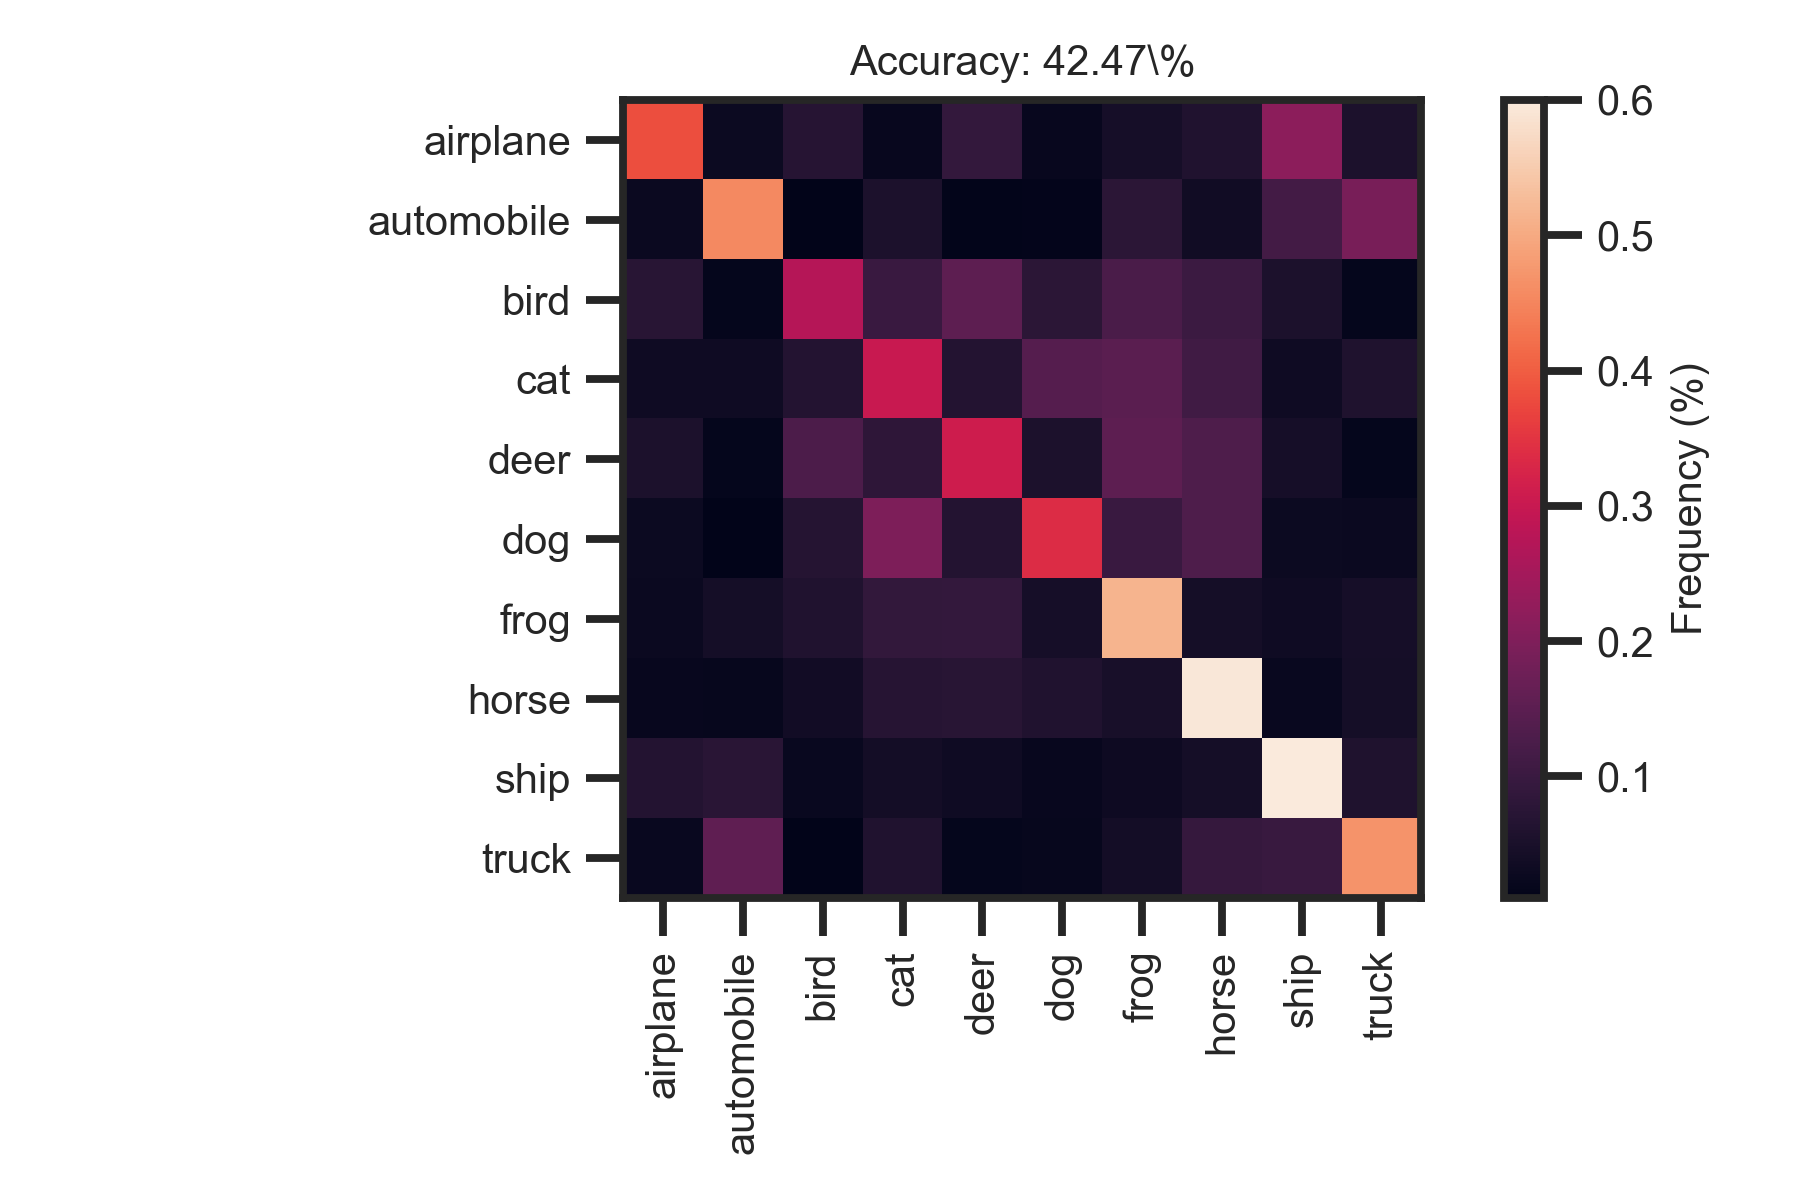
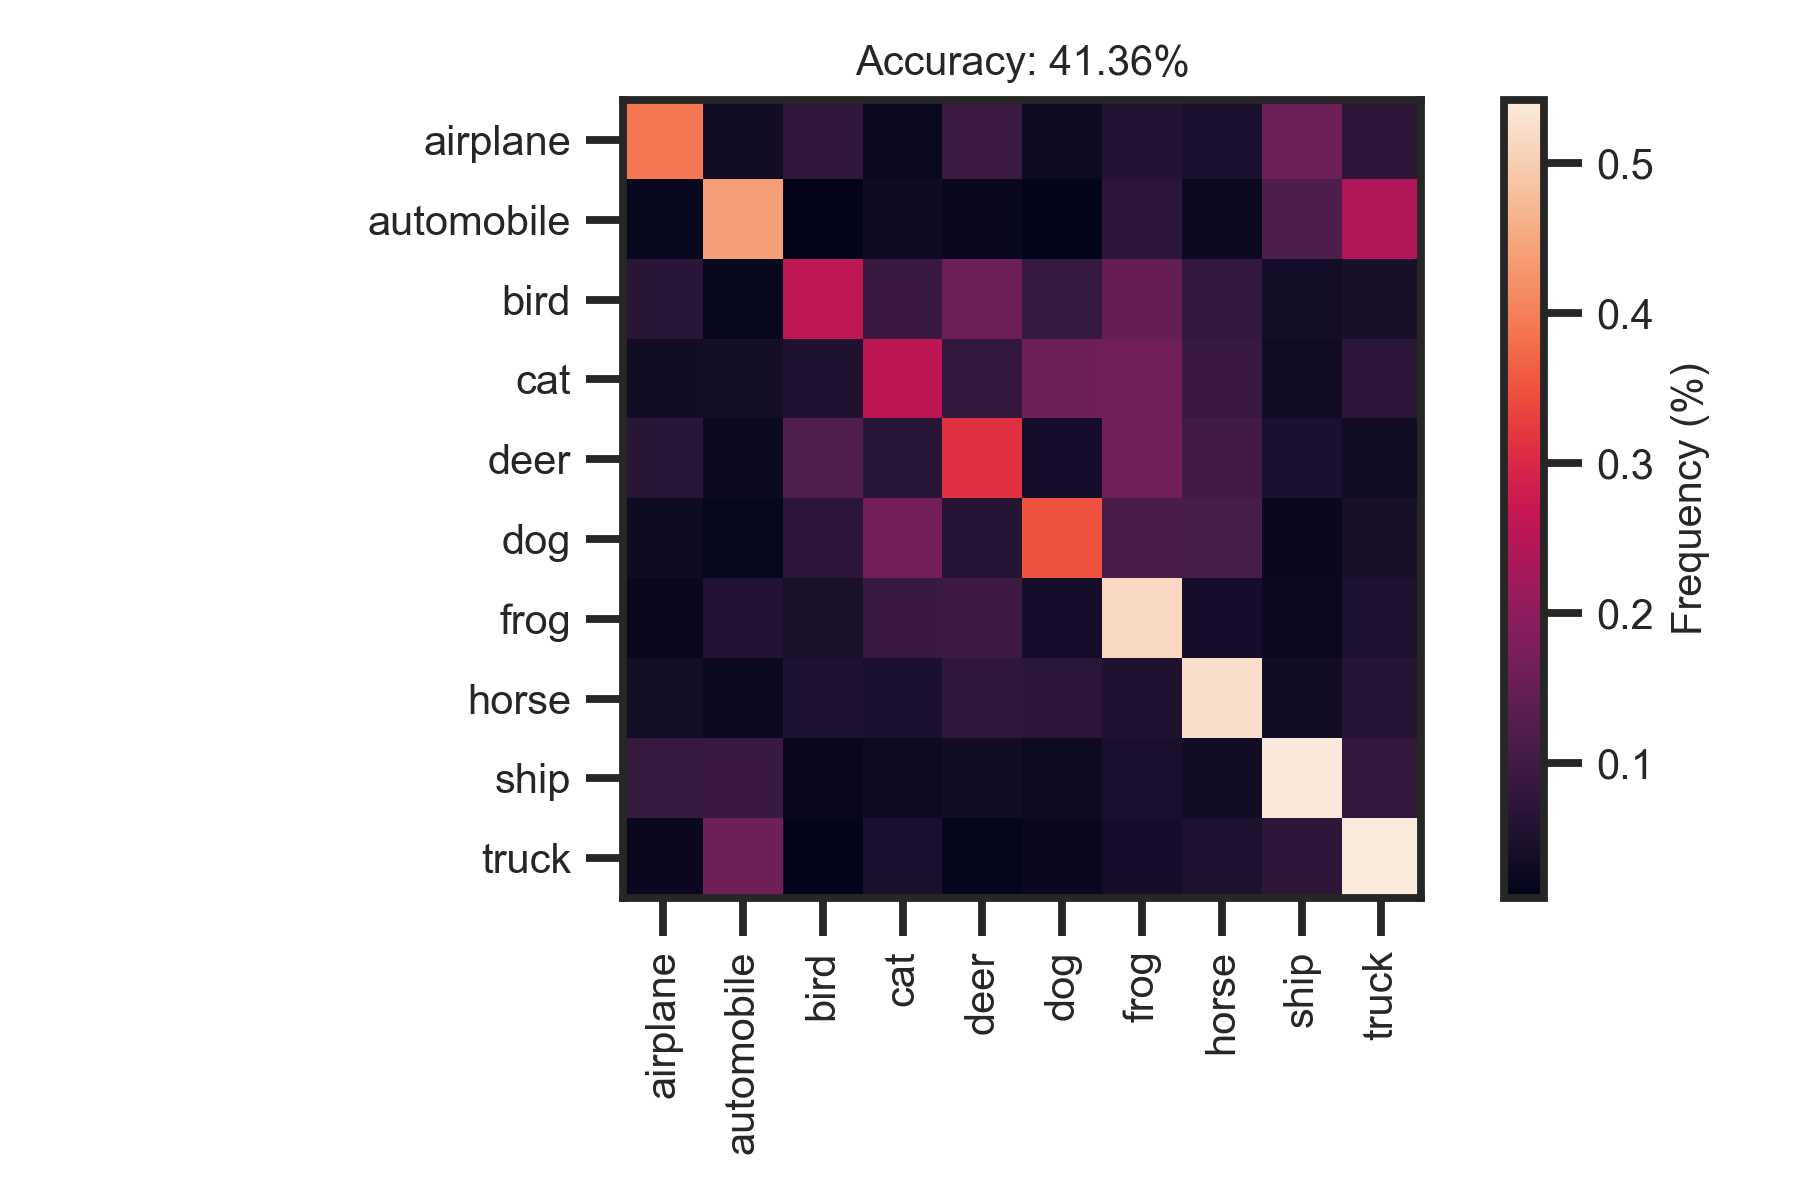
small corrections

diff --git a/helpers/plotting.py b/helpers/plotting.py
@@ -523,7 +523,7 @@ def plot_confusion_matrix(y_true, y_pred, y_labels=None):
     cm = ax.imshow(confusion_matrix(y_true.ravel(), y_pred, normalize='true'))
     ax.set_xticks(np.arange(10)); ax.set_xticklabels(y_labels, rotation=90, fontsize=10);
     ax.set_yticks(np.arange(10)); ax.set_yticklabels(y_labels, fontsize=10);
-    ax.set_title('Accuracy: {:.2f}\%'.format(np.mean(y_pred==y_true.ravel()) * 100), fontsize=10)
+    ax.set_title('Accuracy: {:.2f}%'.format(np.mean(y_pred==y_true.ravel()) * 100), fontsize=10)
     cbar = fig.colorbar(cm)
     cbar.set_label('Frequency (%)', fontsize=10)
     cbar.ax.tick_params(labelsize=10)
